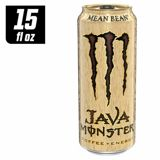
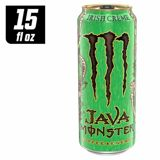
Deals page update 2026-10-19 16:29 (26 deals)
Claude-Session: https://claude.ai/code/session_01GhrhAZoPBpQZQN1Qtgp2SZ

Changed region(s): [[0.4688, 0.0312, 0.875, 0.9688]]

diff --git a/index.html b/index.html
@@ -94,8 +94,8 @@ footer{border-top:7px solid var(--red)}
 /* phone-width fixes */
 html,body{max-width:100%;overflow-x:hidden}.content,.top-inner,.bottom-inner{min-width:0}.filters{overflow-x:auto;-webkit-overflow-scrolling:touch;scrollbar-width:none}.filters::-webkit-scrollbar{display:none}.items{grid-column:1/-1;grid-row:auto;border-top:1px solid #e3e8ec;font-size:12px}.items summary{cursor:pointer;padding:8px 11px;font-weight:800;color:#00549d}.items ul{list-style:none;margin:0;padding:0 8px 8px;display:grid;gap:4px}.items li{display:grid;grid-template-columns:44px minmax(0,1fr) auto;gap:8px;align-items:center;padding:4px;border-radius:6px;background:#f6f8fa}.items img,.items .noimg{width:44px;height:44px;object-fit:contain;background:#fff;border-radius:4px;display:block}.items li.msg{display:block;background:none;color:#4b5a68;font-weight:700}.featured-rail{align-items:start}.featured-rail .deal-card:has(details[open]){grid-column:1/-1}.featured-rail .items summary{font-size:11px;padding:7px 8px}.items .pname{font-weight:700;line-height:1.2;overflow-wrap:anywhere}.items code{font-size:10.5px;color:#4b5a68;white-space:nowrap}.deal-card,.card-copy{min-width:0}.offer-panel strong{white-space:normal;overflow-wrap:anywhere}
 </style></head><body>
-<header class="top"><div class="top-inner"><div class="brand-row"><div class="brand-mark" aria-hidden="true">B3</div><div class="brand">Bylo #3 CITGO</div></div><h1 class="headline">THIS WEEK&rsquo;S <em>DEALS</em></h1><p class="hero-copy">Good deals. Good people. A clean, friendly stop every day.</p><span class="hero-meta">Prices updated October 19, 2026 at 1:38 AM</span></div></header>
-<main class="content"><nav class="filters" aria-label="Filter deals by category"><button class="filter active" type="button" data-filter="all" aria-pressed="true">All deals<span>27</span></button><button class="filter" type="button" data-filter="energy" aria-pressed="false">Energy<span>5</span></button><button class="filter" type="button" data-filter="soda" aria-pressed="false">Soda<span>9</span></button><button class="filter" type="button" data-filter="water" aria-pressed="false">Water, sports &amp; tea<span>11</span></button><button class="filter" type="button" data-filter="snacks" aria-pressed="false">Snacks<span>1</span></button><button class="filter" type="button" data-filter="alcohol" aria-pressed="false">Alcohol<span>1</span></button></nav>
+<header class="top"><div class="top-inner"><div class="brand-row"><div class="brand-mark" aria-hidden="true">B3</div><div class="brand">Bylo #3 CITGO</div></div><h1 class="headline">THIS WEEK&rsquo;S <em>DEALS</em></h1><p class="hero-copy">Good deals. Good people. A clean, friendly stop every day.</p><span class="hero-meta">Prices updated October 19, 2026 at 4:29 PM</span></div></header>
+<main class="content"><nav class="filters" aria-label="Filter deals by category"><button class="filter active" type="button" data-filter="all" aria-pressed="true">All deals<span>26</span></button><button class="filter" type="button" data-filter="energy" aria-pressed="false">Energy<span>5</span></button><button class="filter" type="button" data-filter="soda" aria-pressed="false">Soda<span>8</span></button><button class="filter" type="button" data-filter="water" aria-pressed="false">Water, sports &amp; tea<span>11</span></button><button class="filter" type="button" data-filter="snacks" aria-pressed="false">Snacks<span>1</span></button><button class="filter" type="button" data-filter="alcohol" aria-pressed="false">Alcohol<span>1</span></button></nav>
 <section id="featured-section"><div class="section-head"><h2>Featured deals</h2><p>Popular picks</p></div><div class="featured-rail"><article class="deal-card" data-deal-id="19" data-group="soda">
[1 lines of base64/hex data omitted]
   <div class="card-copy"><div class="card-kicker">Soda</div>
@@ -113,7 +113,7 @@ html,body{max-width:100%;overflow-x:hidden}.content,.top-inner,.bottom-inner{min
     <div class="price-detail">Save at least $1.38</div>
   </div><details class="items" data-deal="10"><summary>See all 14 products</summary><ul></ul></details></article></div></section>
 <section id="more-section"><div class="section-head"><h2>More deals</h2><p>Keep scrolling to browse</p></div><div class="more-list"><article class="deal-card" data-deal-id="103" data-group="energy">
-  <div class="deal-thumb product-thumb"><img src="img/103.jpg" alt="Monster Java 16 oz - Mean Bean" loading="lazy" decoding="async" width="360" height="360"></div><div class="offer-panel"><span class="offer-label">DEAL PRICE</span><strong>2 for $7</strong></div>
+  <div class="deal-thumb product-thumb"><img src="img/103.jpg" alt="Monster Java 16 oz - Irish Blend" loading="lazy" decoding="async" width="360" height="360"></div><div class="offer-panel"><span class="offer-label">DEAL PRICE</span><strong>2 for $7</strong></div>
   <div class="card-copy"><div class="card-kicker">Energy</div>
     <h3>Monster Java</h3><div class="subtitle">Mix and match flavors</div>
     <div class="price-detail">Reg. $4.19 each <span aria-hidden="true">&middot;</span> Save $1.38</div>
@@ -128,7 +128,7 @@ html,body{max-width:100%;overflow-x:hidden}.content,.top-inner,.bottom-inner{min
     <h3>Red Bull 8.4 oz</h3><div class="subtitle">Any flavor, regular or sugar free</div>
     <div class="price-detail">Reg. $2.99 each <span aria-hidden="true">&middot;</span> Save $0.98</div>
   </div><details class="items" data-deal="11"><summary>See all 12 products</summary><ul></ul></details></article><article class="deal-card" data-deal-id="12" data-group="energy">
-  <div class="deal-thumb product-thumb"><img src="img/12.jpg" alt="Bang Energy Cotton Candy 16 oz" loading="lazy" decoding="async" width="360" height="360"></div><div class="offer-panel"><span class="offer-label">DEAL PRICE</span><strong>2 for $5.50</strong></div>
+  <div class="deal-thumb product-thumb"><img src="img/12.jpg" alt="" loading="lazy" decoding="async" width="360" height="360"></div><div class="offer-panel"><span class="offer-label">DEAL PRICE</span><strong>2 for $5.50</strong></div>
   <div class="card-copy"><div class="card-kicker">Energy</div>
     <h3>Monster 16 oz</h3><div class="subtitle">Monster, NOS, Full Throttle, Reign and Bang 16 oz, mix and match</div>
     <div class="price-detail">Reg. from $3.19 each <span aria-hidden="true">&middot;</span> Save at least $0.88</div>
@@ -137,12 +137,7 @@ html,body{max-width:100%;overflow-x:hidden}.content,.top-inner,.bottom-inner{min
   <div class="card-copy"><div class="card-kicker">Soda</div>
     <h3>Fanta and Minute Maid 20 oz</h3><div class="subtitle">Mix and match</div><div class="deal-headline">Buy 2, get 1 free</div>
     <div class="price-detail">Reg. $2.29 each <span aria-hidden="true">&middot;</span> Save $2.29</div>
-  </div><details class="items" data-deal="17"><summary>See all 13 products</summary><ul></ul></details></article><article class="deal-card" data-deal-id="36" data-group="soda">
-  <div class="deal-thumb product-thumb"><img src="img/36.jpg" alt="Crush Orange 20 oz bottle" loading="lazy" decoding="async" width="360" height="360"></div><div class="offer-panel"><span class="offer-label">DEAL PRICE</span><strong>3 for $3.98</strong></div>
-  <div class="card-copy"><div class="card-kicker">Soda</div>
-    <h3>Crush 20 oz</h3><div class="subtitle">Mix and match flavors</div><div class="deal-headline">Buy 2, get 1 free</div>
-    <div class="price-detail">Reg. $1.99 each <span aria-hidden="true">&middot;</span> Save $1.99</div>
-  </div><details class="items" data-deal="36"><summary>See all 4 products</summary><ul></ul></details></article><article class="deal-card" data-deal-id="108" data-group="soda">
+  </div><details class="items" data-deal="17"><summary>See all 13 products</summary><ul></ul></details></article><article class="deal-card" data-deal-id="108" data-group="soda">
   <div class="deal-thumb product-thumb"><img src="img/108.jpg" alt="Coke 2 L" loading="lazy" decoding="async" width="360" height="360"></div><div class="offer-panel"><span class="offer-label">DEAL PRICE</span><strong>2 for $6</strong></div>
   <div class="card-copy"><div class="card-kicker">Soda</div>
     <h3>Coca-Cola 2 L</h3><div class="subtitle">Coke, Diet Coke, Coke Zero, Sprite, Fanta and Seagram&#x27;s</div>
@@ -213,7 +208,7 @@ html,body{max-width:100%;overflow-x:hidden}.content,.top-inner,.bottom-inner{min
     <h3>Powerade 28 oz</h3><div class="subtitle">Mix and match flavors</div>
     <div class="price-detail">Reg. from $2.69 each <span aria-hidden="true">&middot;</span> Save at least $0.63</div>
   </div><details class="items" data-deal="104"><summary>See all 13 products</summary><ul></ul></details></article><article class="deal-card" data-deal-id="105" data-group="water">
-  <div class="deal-thumb product-thumb"><img src="img/105.jpg" alt="Vitamin Water Tropical Citrus 20 oz" loading="lazy" decoding="async" width="360" height="360"></div><div class="offer-panel"><span class="offer-label">DEAL PRICE</span><strong>2 for $5</strong></div>
+  <div class="deal-thumb product-thumb"><img src="img/105.jpg" alt="Vitamin Water Kiwi Strawberry 20 oz" loading="lazy" decoding="async" width="360" height="360"></div><div class="offer-panel"><span class="offer-label">DEAL PRICE</span><strong>2 for $5</strong></div>
   <div class="card-copy"><div class="card-kicker">Water, sports &amp; tea</div>
     <h3>vitaminwater 20 oz</h3><div class="subtitle">Mix and match flavors</div>
     <div class="price-detail">Reg. from $2.59 each <span aria-hidden="true">&middot;</span> Save at least $0.18</div>

diff --git a/sw.js b/sw.js
@@ -1,5 +1,5 @@
 // Keeps a copy of the deals page on the phone so it opens with a weak or no signal.
-const C='deals-20261019013804';
+const C='deals-20261019162930';
 self.addEventListener('install',e=>{self.skipWaiting();e.waitUntil(caches.open(C).then(c=>c.addAll(['./','items.json']).catch(()=>{})))});
 self.addEventListener('activate',e=>e.waitUntil(caches.keys().then(ks=>Promise.all(ks.filter(k=>k!==C).map(k=>caches.delete(k)))).then(()=>self.clients.claim())));
 self.addEventListener('fetch',e=>{const r=e.request;if(r.method!=='GET')return;
